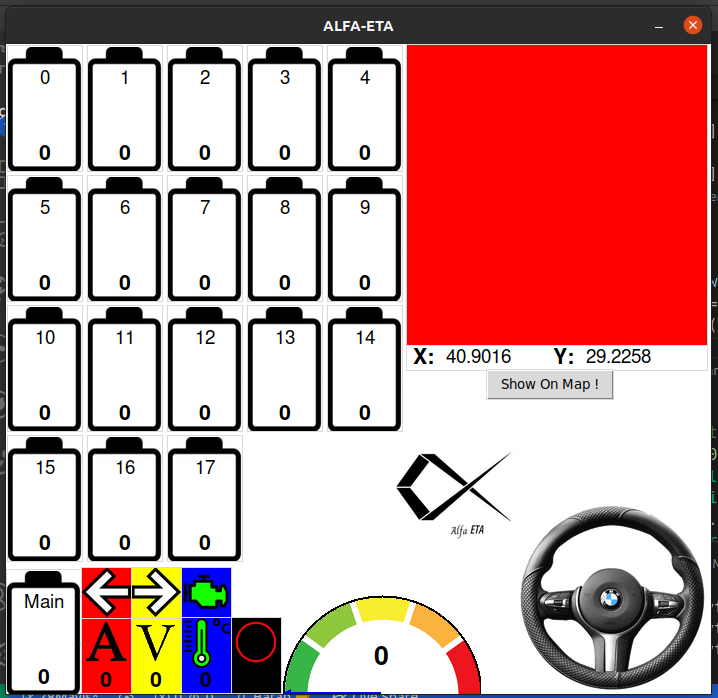
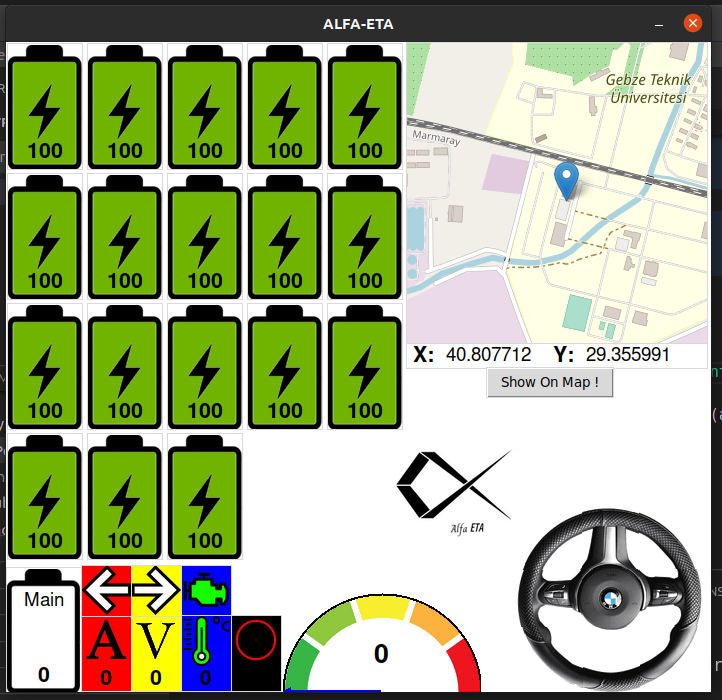
Updated

diff --git a/Map/map.html b/Map/map.html
@@ -23,7 +23,7 @@
             <meta name="viewport" content="width=device-width,
                 initial-scale=1.0, maximum-scale=1.0, user-scalable=no" />
             <style>
-                #map_ab35127a6f8b4368a1c6f30cd107ddf3 {
+                #map_90e046edf6454ce2ae7f7b4dd123d685 {
                     position: relative;
                     width: 100.0%;
                     height: 100.0%;
@@ -35,13 +35,13 @@
 </head>
 <body>    
     
-            <div class="folium-map" id="map_ab35127a6f8b4368a1c6f30cd107ddf3" ></div>
+            <div class="folium-map" id="map_90e046edf6454ce2ae7f7b4dd123d685" ></div>
         
 </body>
 <script>    
     
-            var map_ab35127a6f8b4368a1c6f30cd107ddf3 = L.map(
-                "map_ab35127a6f8b4368a1c6f30cd107ddf3",
+            var map_90e046edf6454ce2ae7f7b4dd123d685 = L.map(
+                "map_90e046edf6454ce2ae7f7b4dd123d685",
                 {
                     center: [40.807712, 29.355991],
                     crs: L.CRS.EPSG3857,
@@ -55,15 +55,15 @@
 
         
     
-            var tile_layer_41717bda29b84fdfbd4ba5766d64451a = L.tileLayer(
+            var tile_layer_37ce8e1f0d67420ab00324612feea03e = L.tileLayer(
                 "https://{s}.tile.openstreetmap.org/{z}/{x}/{y}.png",
                 {"attribution": "Data by \u0026copy; \u003ca href=\"http://openstreetmap.org\"\u003eOpenStreetMap\u003c/a\u003e, under \u003ca href=\"http://www.openstreetmap.org/copyright\"\u003eODbL\u003c/a\u003e.", "detectRetina": false, "maxNativeZoom": 18, "maxZoom": 18, "minZoom": 0, "noWrap": false, "opacity": 1, "subdomains": "abc", "tms": false}
-            ).addTo(map_ab35127a6f8b4368a1c6f30cd107ddf3);
+            ).addTo(map_90e046edf6454ce2ae7f7b4dd123d685);
         
     
-            var marker_7f690b4f260c4ccd95d0d1631613cfe7 = L.marker(
+            var marker_d9683ab678484f3fa8d3e8ab6f31437a = L.marker(
                 [40.807712, 29.355991],
                 {}
-            ).addTo(map_ab35127a6f8b4368a1c6f30cd107ddf3);
+            ).addTo(map_90e046edf6454ce2ae7f7b4dd123d685);
         
 </script>

diff --git a/main.py b/main.py
@@ -402,12 +402,15 @@ def paket1(obj, datas):
     for i in range(0, 2):
         for j in range(0,5):
             updateBattery(obj.allBatteries[i][j], int(arr[(5*i)+j]))
+    for i in range(0, 2):
+        updateBattery(obj.allBatteries[2][i], int(arr[10+i]))
         
 def paket2(obj, datas):
     arr= datas.split("\\")[0].split(",")
-    for i in range(0,2):
-        for j in range(0, 5):
-            updateBattery(obj.allBatteries[i+2][j], int(arr[(5*i)+j]))
+    for i in range(3):
+        updateBattery(obj.allBatteries[2][2+i], int(arr[i]))
+    for i in range(3):
+        updateBattery(obj.allBatteries[3][i], int(arr[i+3]))
     
 def paket3(obj, datas):
     arr= datas.split("\\")[0].split(",")

diff --git a/README.md b/README.md
@@ -1,2 +1,3 @@
 # Alfa-ETA_User_Interface
 ![alt text](https://github.com/baransolmaz/Alfa-ETA_User_Interface/blob/28Mayis/Current/17.png)
+ 
